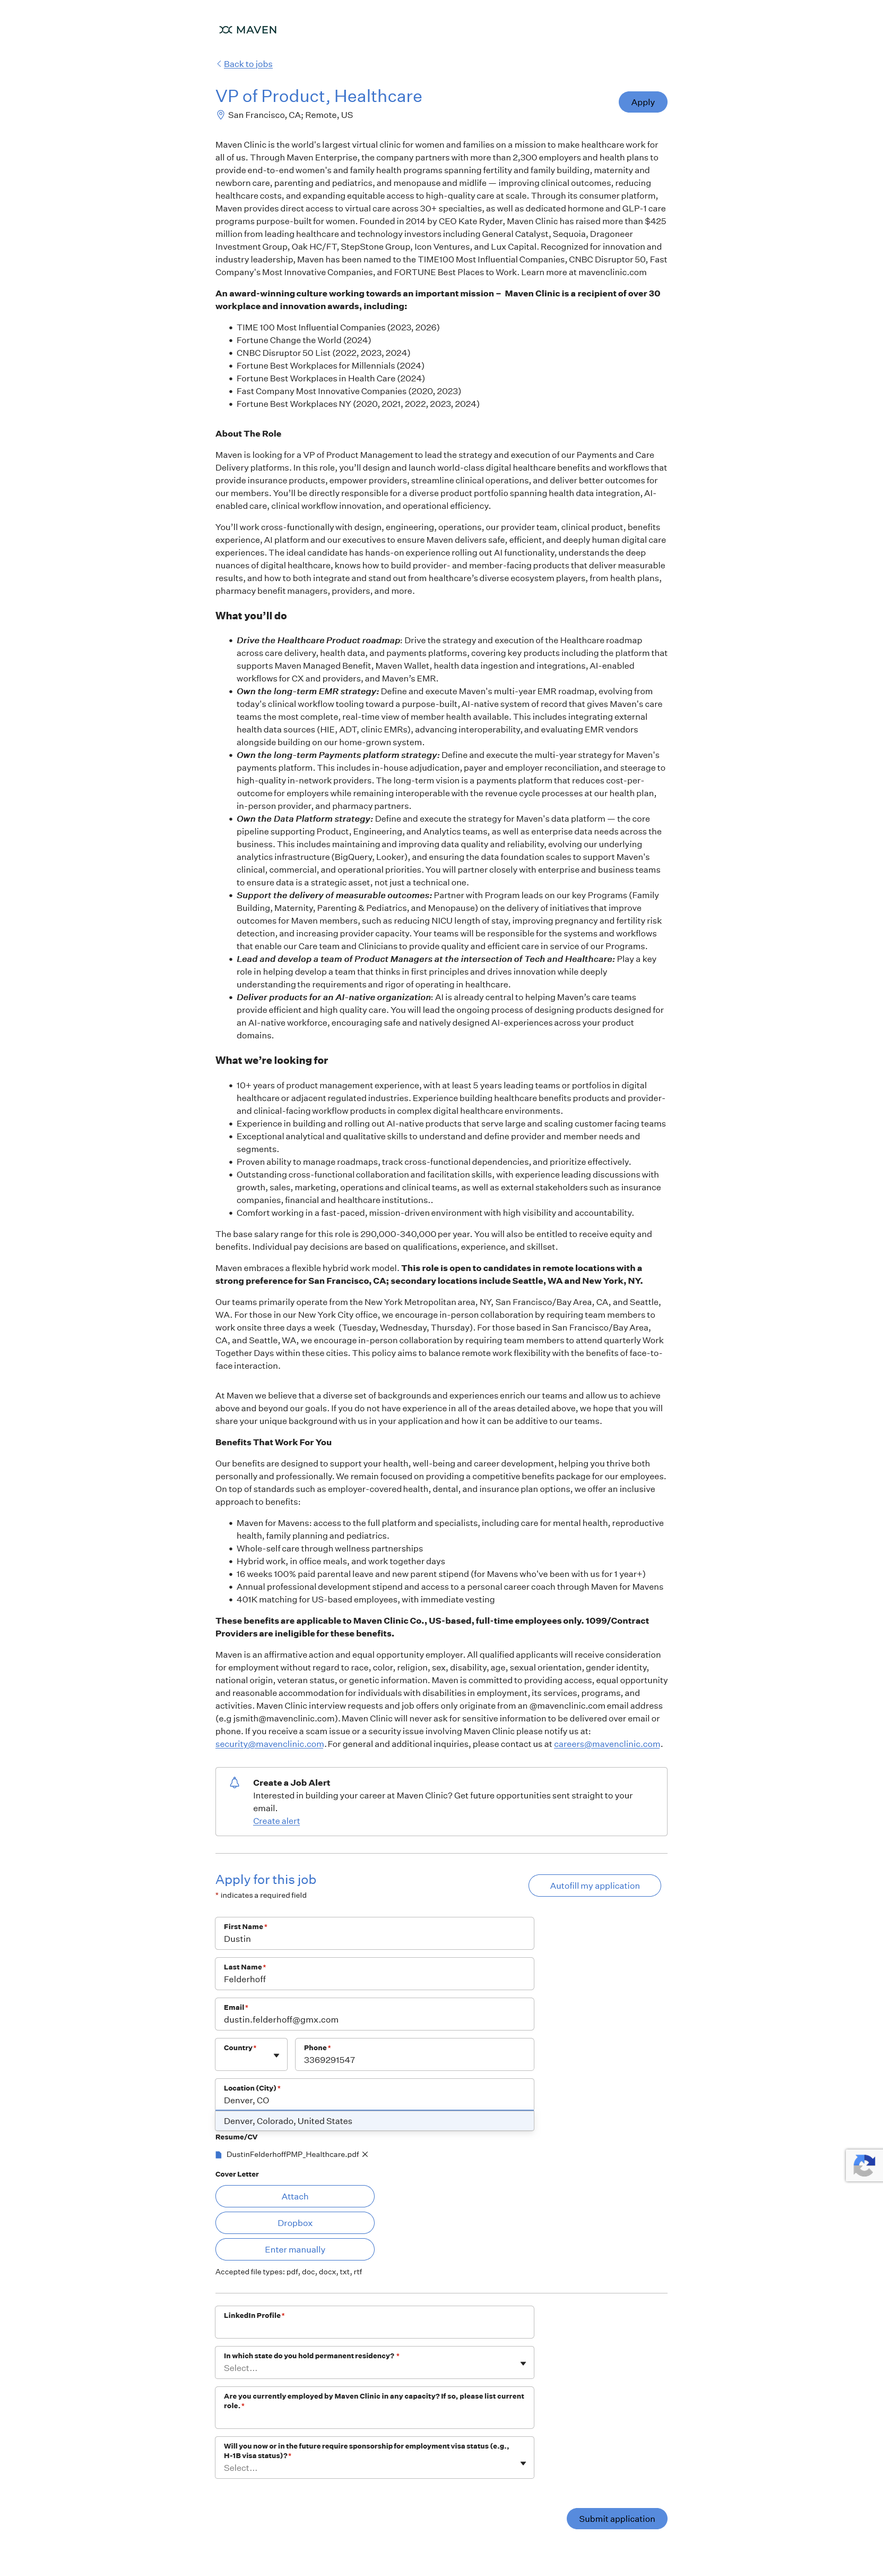
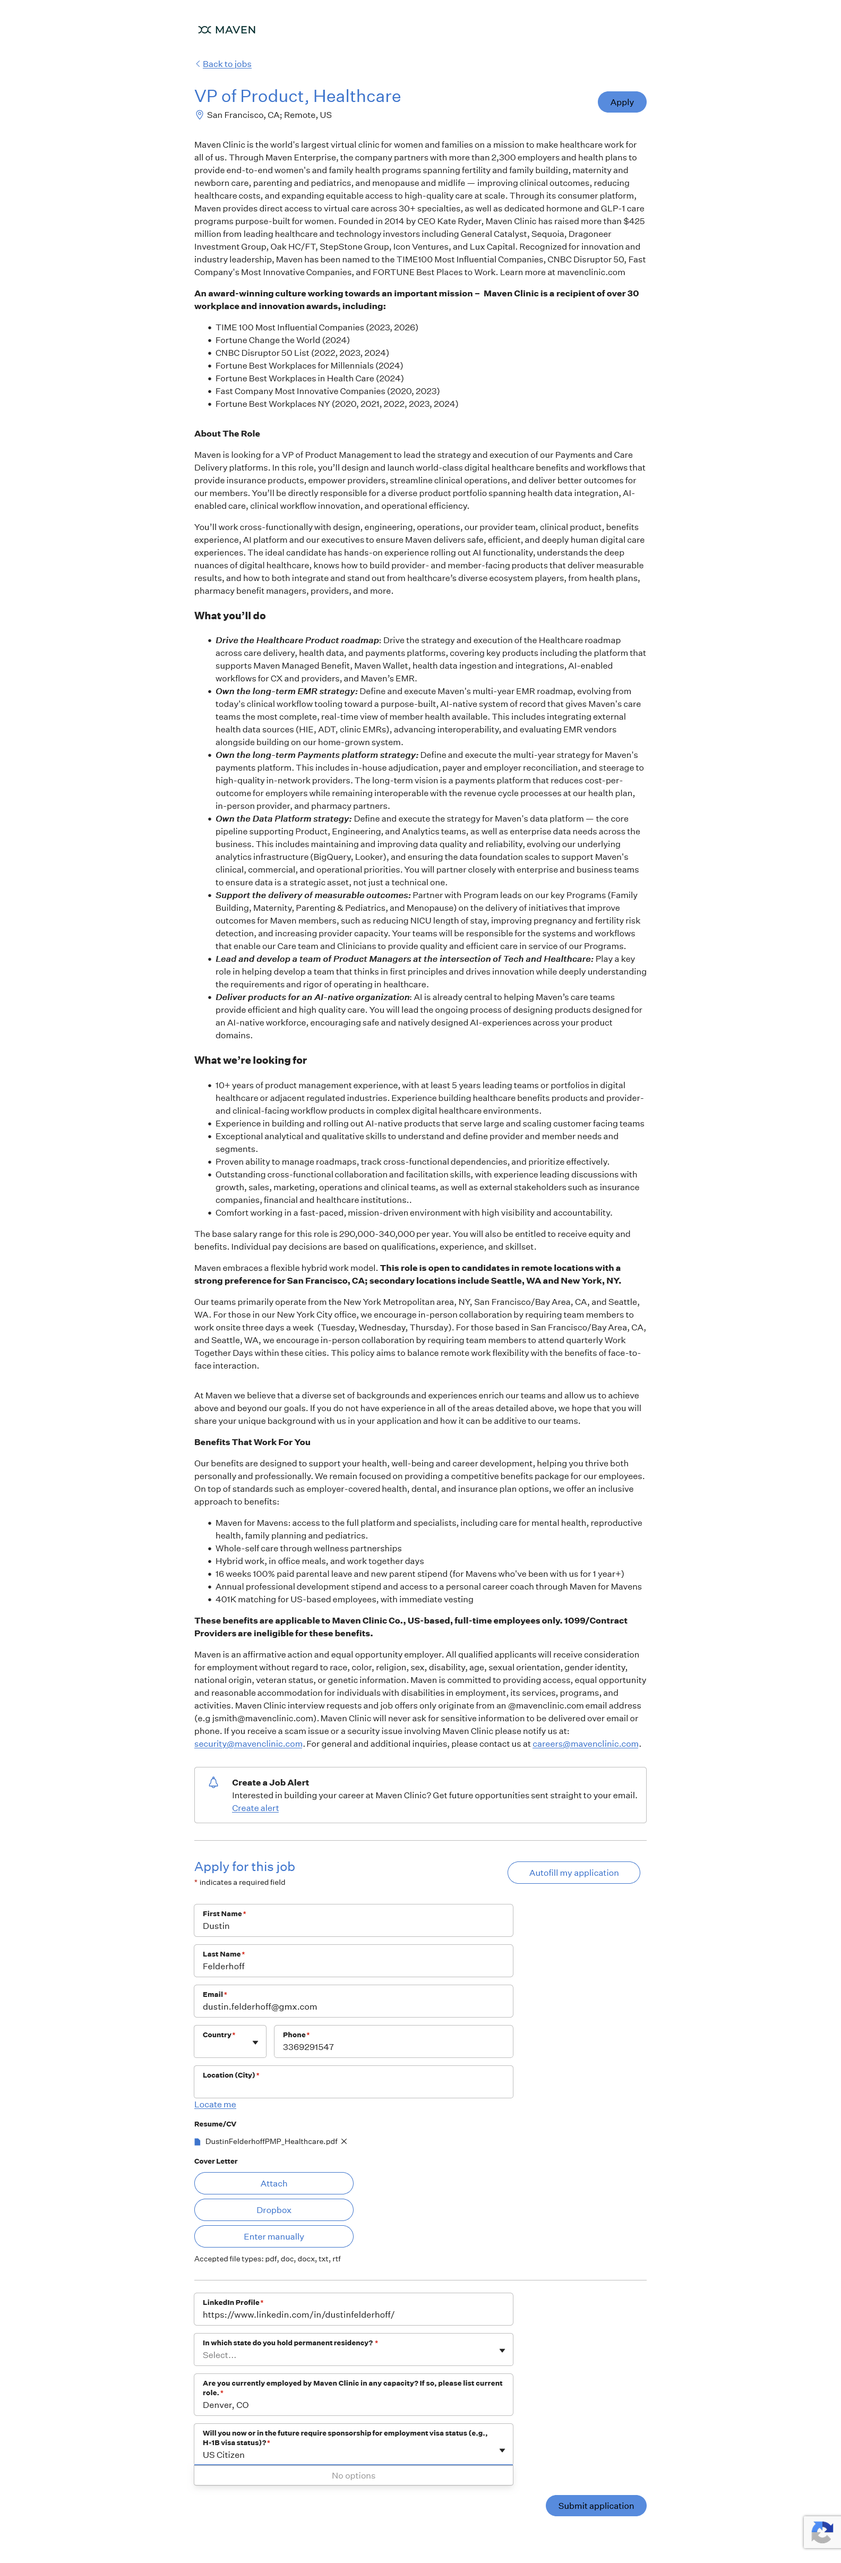
update dashboard

diff --git a/apply/job-dashboard.html b/apply/job-dashboard.html
@@ -68,7 +68,7 @@ a:hover{text-decoration:underline}
 <div id="dashboard" style="display:none">
 <header>
   <h1>Job-Application Monitor</h1>
-  <div class="sub">Auto-apply pipeline · generated 2026-08-31 22:01  · data: jobs.db + analytics.db + filled-form captures</div>
+  <div class="sub">Auto-apply pipeline · generated 2026-08-31 22:30  · data: jobs.db + analytics.db + filled-form captures</div>
 </header>
 <div class="wrap">
   <section class="card"><h2>Summary</h2><div class="grid"><div class="metric"><div class="label">Applied</div><div class="value">22</div></div><div class="metric"><div class="label">Interviews</div><div class="value">4</div></div><div class="metric"><div class="label">Interview requested</div><div class="value">0</div></div><div class="metric"><div class="label">Interview rate</div><div class="value">18.2%</div></div><div class="metric"><div class="label">Velocity</div><div class="value">3.1 apps/wk</div></div><div class="metric"><div class="label">Ready to apply</div><div class="value">215</div></div><div class="metric"><div class="label">Fillable (ATS)</div><div class="value">149</div></div><div class="metric"><div class="label">Has questions</div><div class="value">31</div></div></div></section>
@@ -85,7 +85,7 @@ a:hover{text-decoration:underline}
     </tr></thead>
     <tbody><tr><td class='company'>Contentsquare</td><td>Contentsquare - Senior Product Manager, User &amp; Lifecycle Analytics</td><td>2026-08-28</td><td class='src'>Tavily search</td><td class='num'>75</td><td><span class='badge badge-gray'>questions_extracted</span></td><td><span class='badge badge-gray'>No</span></td><td class='num'>56</td><td class='num'>80</td><td>2026-08-28</td><td class='proof'><a class="proof-online" href="proof/job2032.png" target="_blank" rel="noopener">View proof (online)</a><br><small class="muted">PNG committed online; PDF + audit local</small><br><small class="muted">captured 2026-08-31 11:04</small></td><td class='num'><span style="color:#dc2626;font-weight:600" title="5/19 fields filled (4.5 required-weighted pts / 13.0 possible)">35</span></td><td class='num'><span style="color:#d97706;font-weight:600" title="8 identity field(s) assessed, 3 matched, 5.5 pts/8.0 · email:match; phone:match; location:empty(0.5); linkedin:match; portfolio:empty(0.5); portfolio:empty(0.5); portfolio:empty(0.5); location:empty(0.5)">69</span></td><td class='num'><span class="na" title="no free-form written answer captured/assessed">N/A</span></td><td class='num'>80</td></tr>
 <tr><td class='company'>Twilio</td><td>Staff Product Manager</td><td>2026-08-27</td><td class='src'>ATS 2h scan · job_source_ats_2h</td><td class='num'>100</td><td><span class='badge badge-gray'>questions_extracted</span></td><td><span class='badge badge-gray'>No</span></td><td class='num'>63</td><td class='num'>92</td><td>2026-08-26</td><td class='proof'><span class="na">—</span></td><td class='num'><span class="na" title="no data">N/A</span></td><td class='num'><span class="na" title="no data">N/A</span></td><td class='num'><span class="na" title="no data">N/A</span></td><td class='num'>92</td></tr>
-<tr><td class='company'>Maven Clinic</td><td>VP of Product, Healthcare</td><td>2026-08-27</td><td class='src'>Daily scan · job_source_daily_scan</td><td class='num'>95</td><td><span class='badge badge-gray'>questions_extracted</span></td><td><span class='badge badge-gray'>No</span></td><td class='num'>76</td><td class='num'>74</td><td>2026-06-18</td><td class='proof'><a class="proof-online" href="proof/job1989.png" target="_blank" rel="noopener">View proof (online)</a><br><small class="muted">PNG committed online; PDF + audit local</small><br><small class="muted">captured 2026-08-31 18:34</small></td><td class='num'><span style="color:#dc2626;font-weight:600" title="5/14 fields filled (5.0 required-weighted pts / 14.0 possible)">36</span></td><td class='num'><span style="color:#d97706;font-weight:600" title="7 identity field(s) assessed, 5 matched, 6.0 pts/7.0 · first_name:match; last_name:match; email:match; phone:match; location:match; linkedin:empty(0.5); location:empty(0.5)">86</span></td><td class='num'><span class="na" title="no free-form written answer captured/assessed">N/A</span></td><td class='num'>74</td></tr>
+<tr><td class='company'>Maven Clinic</td><td>VP of Product, Healthcare</td><td>2026-08-27</td><td class='src'>Daily scan · job_source_daily_scan</td><td class='num'>95</td><td><span class='badge badge-gray'>questions_extracted</span></td><td><span class='badge badge-gray'>No</span></td><td class='num'>79</td><td class='num'>74</td><td>2026-06-18</td><td class='proof'><a class="proof-online" href="proof/job1989.png" target="_blank" rel="noopener">View proof (online)</a><br><small class="muted">PNG committed online; PDF + audit local</small><br><small class="muted">captured 2026-08-31 22:06</small></td><td class='num'><span style="color:#d97706;font-weight:600" title="9/14 fields filled (9.0 required-weighted pts / 14.0 possible)">64</span></td><td class='num'><span style="color:#059669;font-weight:600" title="8 identity field(s) assessed, 8 matched, 8.0 pts/8.0 · first_name:match; last_name:match; email:match; phone:match; location:match; location:match; linkedin:match; location:match">100</span></td><td class='num'><span class="na" title="no free-form written answer captured/assessed">N/A</span></td><td class='num'>74</td></tr>
 <tr><td class='company'>Maven Clinic</td><td>Senior Staff Product Manager, Member &amp; AI Experience</td><td>2026-08-27</td><td class='src'>Daily scan · job_source_daily_scan</td><td class='num'>95</td><td><span class='badge badge-gray'>questions_extracted</span></td><td><span class='badge badge-gray'>No</span></td><td class='num'>58</td><td class='num'>73</td><td>2026-06-18</td><td class='proof'><span class="na">—</span></td><td class='num'><span class="na" title="no data">N/A</span></td><td class='num'><span class="na" title="no data">N/A</span></td><td class='num'><span class="na" title="no data">N/A</span></td><td class='num'>73</td></tr>
 <tr><td class='company'>Maven Clinic</td><td>Senior Staff Product Manager, Fertility &amp; Family Building</td><td>2026-08-27</td><td class='src'>Daily scan · job_source_daily_scan</td><td class='num'>95</td><td><span class='badge badge-gray'>questions_extracted</span></td><td><span class='badge badge-gray'>No</span></td><td class='num'>56</td><td class='num'>73</td><td>2026-06-18</td><td class='proof'><a class="proof-online" href="proof/job1981.png" target="_blank" rel="noopener">View proof (online)</a><br><small class="muted">PNG committed online; PDF + audit local</small><br><small class="muted">captured 2026-08-31 03:04</small></td><td class='num'><span style="color:#dc2626;font-weight:600" title="5/14 fields filled (5.0 required-weighted pts / 14.0 possible)">36</span></td><td class='num'><span style="color:#d97706;font-weight:600" title="7 identity field(s) assessed, 5 matched, 6.0 pts/7.0 · first_name:match; last_name:match; email:match; phone:match; location:match; linkedin:empty(0.5); location:empty(0.5)">86</span></td><td class='num'><span class="na" title="no free-form written answer captured/assessed">N/A</span></td><td class='num'>73</td></tr>
 <tr><td class='company'>Maven Clinic</td><td>Group Product Manager, Client Services</td><td>2026-08-27</td><td class='src'>Daily scan · job_source_daily_scan</td><td class='num'>95</td><td><span class='badge badge-gray'>questions_extracted</span></td><td><span class='badge badge-gray'>No</span></td><td class='num'>58</td><td class='num'>71</td><td>2026-06-18</td><td class='proof'><span class="na">—</span></td><td class='num'><span class="na" title="no data">N/A</span></td><td class='num'><span class="na" title="no data">N/A</span></td><td class='num'><span class="na" title="no data">N/A</span></td><td class='num'>71</td></tr>
@@ -162,7 +162,9 @@ a:hover{text-decoration:underline}
 <tr><td class='company'>RevenueCat</td><td>Senior Product Manager, Analytics &amp; Experiments</td><td>—</td><td class='src'>Recovered (rebuild)</td><td class='num'><span class="na" title="Unknown / indeterminate discovery source (e.g. recovered job) - no score fabricated">-</span></td><td><span class='badge badge-red'>rejected</span></td><td><span class='badge badge-gray'>No</span></td><td class='num'>58</td><td class='num'>70</td><td>2026-06-29</td><td class='proof'><span class="na">—</span></td><td class='num'><span class="na" title="no data">N/A</span></td><td class='num'><span class="na" title="no data">N/A</span></td><td class='num'><span class="na" title="no data">N/A</span></td><td class='num'>70</td></tr></tbody>
     </table></div>
   </section>
-  <section class="card"><h2>Recent activity</h2><div class='act-row'><span class='badge badge-gray'>practice_fill</span> <strong>Maven Clinic</strong> <span class='muted'>VP of Product, Healthcare</span> — in_progress <span class='muted pull'>2026-09-01 04:00</span></div>
+  <section class="card"><h2>Recent activity</h2><div class='act-row'><span class='badge badge-gray'>practice_fill</span> <strong>Maven Clinic</strong> <span class='muted'>VP of Product, Healthcare</span> — captured <span class='muted pull'>2026-09-01 04:06</span></div>
+<div class='act-row'><span class='badge badge-gray'>application_complete</span> <strong>Maven Clinic</strong> <span class='muted'>VP of Product, Healthcare</span> — awaiting_submit <span class='muted pull'>2026-09-01 04:06</span></div>
+<div class='act-row'><span class='badge badge-gray'>practice_fill</span> <strong>Maven Clinic</strong> <span class='muted'>VP of Product, Healthcare</span> — in_progress <span class='muted pull'>2026-09-01 04:00</span></div>
 <div class='act-row'><span class='badge badge-gray'>application_attempt</span> <strong>Maven Clinic</strong> <span class='muted'>VP of Product, Healthcare</span> — in_progress <span class='muted pull'>2026-09-01 04:00</span></div>
 <div class='act-row'><span class='badge badge-gray'>liveness_recurring_failure</span> <strong>Klaviyo</strong> <span class='muted'>Senior Lead Product Manager, Enterprise - Klaviyo</span> — dead <span class='muted pull'>2026-09-01 03:01</span></div>
 <div class='act-row'><span class='badge badge-gray'>liveness_recurring_failure</span> <strong>Future</strong> <span class='muted'>Job Application for Staff Product Manager at Future</span> — dead <span class='muted pull'>2026-09-01 03:01</span></div>
@@ -171,9 +173,7 @@ a:hover{text-decoration:underline}
 <div class='act-row'><span class='badge badge-gray'>application_complete</span> <strong>Hophr</strong> <span class='muted'>Hop - Senior Product Manager, Pharma Analytics Products</span> — awaiting_submit <span class='muted pull'>2026-09-01 02:46</span></div>
 <div class='act-row'><span class='badge badge-gray'>practice_fill</span> <strong>Hophr</strong> <span class='muted'>Hop - Senior Product Manager, Pharma Analytics Products</span> — in_progress <span class='muted pull'>2026-09-01 02:40</span></div>
 <div class='act-row'><span class='badge badge-gray'>application_attempt</span> <strong>Hophr</strong> <span class='muted'>Hop - Senior Product Manager, Pharma Analytics Products</span> — in_progress <span class='muted pull'>2026-09-01 02:40</span></div>
-<div class='act-row'><span class='badge badge-gray'>practice_fill</span> <strong>Sekai</strong> <span class='muted'>AI Product Manager (Remote)</span> — captured <span class='muted pull'>2026-09-01 02:10</span></div>
-<div class='act-row'><span class='badge badge-gray'>application_complete</span> <strong>Sekai</strong> <span class='muted'>AI Product Manager (Remote)</span> — partial <span class='muted pull'>2026-09-01 02:10</span></div>
-<div class='act-row'><span class='badge badge-gray'>practice_fill</span> <strong>Sekai</strong> <span class='muted'>AI Product Manager (Remote)</span> — in_progress <span class='muted pull'>2026-09-01 02:00</span></div></section>
+<div class='act-row'><span class='badge badge-gray'>practice_fill</span> <strong>Sekai</strong> <span class='muted'>AI Product Manager (Remote)</span> — captured <span class='muted pull'>2026-09-01 02:10</span></div></section>
   <p class="pager">Built by scripts/build_public_dashboard.py · proof captures are local files; only small PNGs are copied to the repo for online viewing.</p>
 </div>
 </div>
